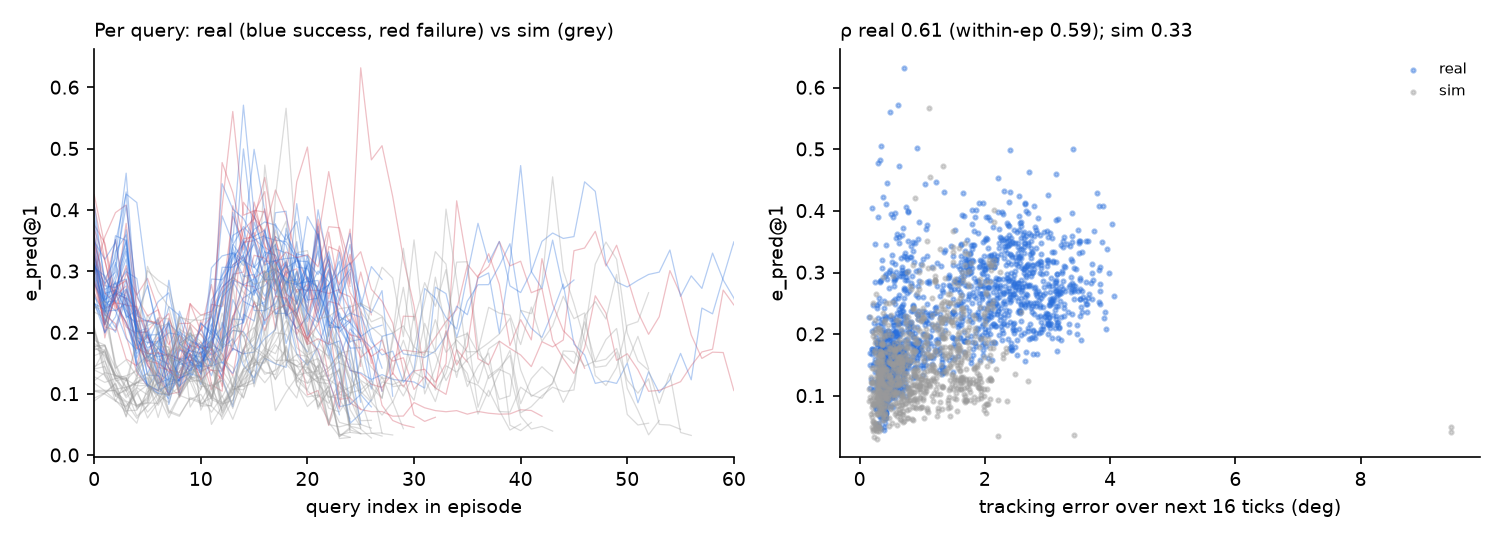
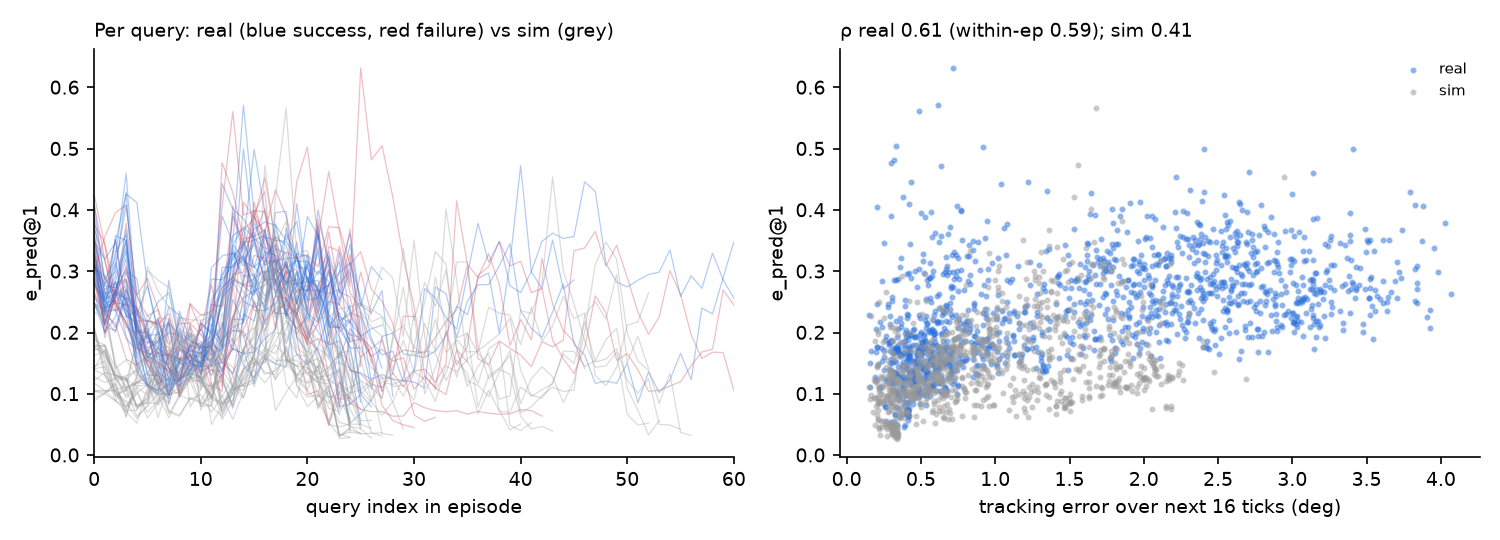
T011 review: one tracking definition (cmd at tick k vs state after it) for real and sim; fix T009 sim log offset (logs start after the hold); stop-restart tick profiles
Sim slope of e_pred on e_track is now 0.044/deg (= real; was 0.022). Excess +0.084 = 0.058 visual + 0.026 tracking + 0.000 slope (was 0.034/0.025/0.021). Restart share 0.006-0.014. Real-side numbers unchanged.

diff --git a/src/so101_playground/t011_analysis.py b/src/so101_playground/t011_analysis.py
@@ -98,6 +98,20 @@ def auroc(pos, neg) -> float:
     return float(((pos[:, None] > neg[None]).mean() + 0.5 * (pos[:, None] == neg[None]).mean()))
 
 
+# ---------------------------------------------------------------- chunk profile (one definition, real and sim)
+def chunk_profile(cmd16: np.ndarray, q17: np.ndarray) -> dict:
+    """cmd16[k-1] = command issued at chunk tick k (k = 1..16); q17[0] = arm state at the query (before tick 1),
+    q17[k] = state after command k has been applied for one control tick. Degrees, arm joints only.
+    real: cmd[s:s+16], state[s:s+17] (state is read at the start of a step, before that step's command);
+    sim:  cmd[i:i+16], [q[i-1]] + q[i:i+16] (q is logged after env.step), i = log index of the query step."""
+    c, q = cmd16[:, ARM], q17[:, ARM]
+    trk = np.abs(c - q[1:]).mean(1)  # per tick
+    spd = np.abs(np.diff(q, axis=0)).max(1)  # max joint speed, deg / tick
+    return {"motion16_deg": float(np.abs(q[16] - q[0]).max()), "e_track16_deg": float(trk.mean()),
+            "e_track_t1_8": float(trk[:8].mean()), "e_track_t9_16": float(trk[8:].mean()), "spd_t1": float(spd[0]),
+            "trk_k": trk.tolist(), "spd_k": spd.tolist(), "cmd_spd_k": np.abs(np.diff(np.vstack([q[:1], c]), axis=0)).max(1).tolist()}
+
+
 # ---------------------------------------------------------------- real
 def load_real(out: Path) -> tuple[list[dict], dict]:
     Q = [json.loads(l) for l in (out / "queries.jsonl").open()]
@@ -110,6 +124,14 @@ def load_real(out: Path) -> tuple[list[dict], dict]:
         qs = sorted(by[name], key=lambda r: r["q"])
         z = np.load(HOME / name / "trajectory.npz")
         st, cmd = z["state_sim_deg"], z["command_sim_deg"]
+        qsteps = np.flatnonzero(z["policy_query"])
+        for r in qs:
+            sq = int(qsteps[r["q"]])
+            assert sq == r["step"]
+            if sq + 16 < len(st):
+                r.update(chunk_profile(cmd[sq:sq + 16], st[sq:sq + 17]))
+            else:
+                r["e_track16_deg"] = None
         lab = LABELS[i]
         e = {"idx": i, "dir": name, "date": name[:8], "instruction": json.loads((HOME / name / "episode.json").read_text())["instructions"][0][1],
              "group": group_of(name, lab), "target": lab[0], "success": lab[1], "confidence": lab[2], "note": lab[3],
@@ -168,12 +190,14 @@ def load_sim() -> list[dict]:
                 npz = np.load(p, allow_pickle=True)
         for qi, f in enumerate(fr):
             d = dict(frames[f], src=src, home=home, obj=SIM_NAMES[home], ep=f"{src}:{cond}:{ep}:{att}", frame=f, qi=qi)
-            if npz is not None and f < len(npz["q"]):
+            # T007 (wam_gap_eval) logs every step from 0; T009 logs only after the hold, so index = step - hold
+            off = int(npz["hold_steps"]) if (npz is not None and src == "T009") else 0
+            i = f - off
+            if npz is not None and i + 16 <= len(npz["q"]) and (i >= 1 or "q_start" in npz):
                 q, cmd = np.degrees(npz["q"]), np.degrees(npz["cmd"])
-                n = len(q)
-                d["motion16_deg"] = float(np.abs(q[min(f + 16, n - 1), ARM] - q[f, ARM]).max())
-                d["e_track16_deg"] = float(np.abs(cmd[f:f + 16, ARM] - q[f:f + 16, ARM]).mean())
-                d["first_query"] = f == int(npz["hold_steps"]) or qi == 0
+                prev = q[i - 1] if i >= 1 else np.degrees(npz["q_start"])
+                d.update(chunk_profile(cmd[i:i + 16], np.vstack([prev[None], q[i:i + 16]])))
+                d["first_query"] = qi == 0
             rows.append(d)
     return rows
 
@@ -408,6 +432,43 @@ def main() -> None:
     reg["decomposition"] = {"total_excess": reg["real:mean_e_pred@1"] - reg["sim:mean_e_pred@1"],
                             "intercept_offset": a0 - b0, "more_tracking_error": a1 * (tr - ts), "steeper_slope": (a1 - b1) * ts}
     S["track_regression"] = reg
+    # --- stop-and-restart (L1 question): real chunks start from rest after the 0.8 s query hold; sim pauses the
+    # physics, so the arm resumes with its velocity. Per-tick profiles at matched chunk motion, and how much of the
+    # tracking-linked excess the early (ticks 1-8) part carries.
+    rs_ = {}
+    mbins = ((0, 2), (2, 10), (10, 20), (20, 40))
+    for nm, rows in (("real", rq), ("sim", sq)):
+        prof = {}
+        for lo, hi in mbins + ((10, 40),):
+            R_ = [r for r in rows if lo <= r["motion16_deg"] < hi and "trk_k" in r]
+            prof[f"{lo}-{hi}"] = {"n": len(R_), "trk_k": np.mean([r["trk_k"] for r in R_], 0).round(3).tolist(),
+                                  "spd_k": np.mean([r["spd_k"] for r in R_], 0).round(3).tolist(),
+                                  "cmd_spd_k": np.mean([r["cmd_spd_k"] for r in R_], 0).round(3).tolist(),
+                                  "e_track_t1_8": float(np.mean([r["e_track_t1_8"] for r in R_])),
+                                  "e_track_t9_16": float(np.mean([r["e_track_t9_16"] for r in R_])),
+                                  "e_track_t4_8": float(np.mean([np.mean(r["trk_k"][3:8]) for r in R_])),
+                                  "spd_t1": float(np.mean([r["spd_t1"] for r in R_])),
+                                  "spd_t4_8": float(np.mean([np.mean(r["spd_k"][3:8]) for r in R_])),
+                                  "e_pred@1": float(np.mean([r["e_pred@1"] for r in R_]))}
+        rs_[nm] = {"profile": prof, "fit_early_late": fit(rows, ["e_track_t1_8", "e_track_t9_16"])}
+    # counterfactual: give each real chunk sim's early/late tracking ratio at its motion bin (late part kept)
+    cf = []
+    ce = rs_["real"]["fit_early_late"]["coef"][1]
+    for r in rq:
+        for lo, hi in mbins:
+            if lo <= r["motion16_deg"] < hi:
+                ps = rs_["sim"]["profile"][f"{lo}-{hi}"]
+                ratio = ps["e_track_t1_8"] / ps["e_track_t9_16"]
+                cf.append(ce * max(0.0, r["e_track_t1_8"] - ratio * r["e_track_t9_16"]))
+    dec = reg["decomposition"]
+    rs_["restart_share"] = {"coef_early_real": ce, "e_pred_reduction_if_sim_early_late_ratio": float(np.mean(cf)),
+                            "of_total_excess": float(np.mean(cf) / dec["total_excess"]),
+                            "of_tracking_linked_excess": float(np.mean(cf) / (dec["more_tracking_error"] + dec["steeper_slope"]))}
+    # sim-only check: at matched motion, does starting a chunk slowly (low tick-1 speed) raise e_pred in sim?
+    sm = [r for r in sq if r["motion16_deg"] >= 10]
+    rs_["sim_entry_speed_check"] = {"n": len(sm), "fit": fit(sm, ["motion16_deg", "spd_t1"]),
+                                    "spearman_e_pred_vs_spd_t1": spearman([r["e_pred@1"] for r in sm], [r["spd_t1"] for r in sm])}
+    S["restart"] = rs_
     cm = out / "codec_motion.jsonl"
     if cm.exists():
         R = [json.loads(l) for l in cm.open()]
@@ -551,6 +612,25 @@ def plots(out: Path, eps, byq, sim, S) -> None:
                     f"sim {t['sim_query_spearman']:.2f}", fontsize=9, loc="left")
     fig.tight_layout()
     fig.savefig(out / "fig_per_query.png", dpi=150)
+    plt.close(fig)
+
+    # Fig 4: chunk tick profiles (moving chunks, 10-40 deg over the chunk): real starts from rest after the hold
+    fig, ax = plt.subplots(1, 2, figsize=(10, 3.4))
+    k = np.arange(1, 17)
+    for nm, c in (("real", C_REAL), ("sim", C_SIM)):
+        pr = S["restart"][nm]["profile"]["10-40"]
+        ax[0].plot(k, pr["spd_k"], "o-", color=c, ms=3, label=f"{nm} arm (n={pr['n']})")
+        ax[0].plot(k, pr["cmd_spd_k"], "--", color=c, lw=1, label=f"{nm} command")
+        ax[1].plot(k, pr["trk_k"], "o-", color=c, ms=3, label=nm)
+    ax[0].set_xlabel("tick in chunk (query = 0)"); ax[0].set_ylabel("max joint speed (deg / tick)")
+    ax[0].set_title("Real: tick 1 includes the 0.8 s hold (arm catches up), then stalls and re-accelerates", fontsize=8, loc="left")
+    ax[0].legend(frameon=False, fontsize=7)
+    ax[1].set_xlabel("tick in chunk"); ax[1].set_ylabel("|cmd(t) − q after t| (deg, arm mean)")
+    ax[1].set_title("Tracking error per tick (latent L1 = ticks 4–16)", fontsize=8, loc="left")
+    ax[1].axvspan(4, 16, color="k", alpha=0.04)
+    ax[1].legend(frameon=False, fontsize=7)
+    fig.tight_layout()
+    fig.savefig(out / "fig_restart.png", dpi=150)
     plt.close(fig)
 
 

diff --git a/docs/T011-real-epred.md b/docs/T011-real-epred.md
@@ -52,7 +52,7 @@ settle. Every real chunk therefore starts from rest (stop-and-go).
 | e_pred@1 overhead / wrist | 0.100 / 0.365 | 0.040 / 0.257 |
 | e_pred@2 | 0.335 | 0.198 (T007 only) |
 | e_static@1 | 0.375 | 0.382 |
-| e_track (\|cmd(t−1) − q(t)\|, arm, °) | 1.60 (2.21 while moving) | 0.98 (per query; T009 θ0 episode 1.22) |
+| e_track (\|command − state after it\|, arm, °) | 1.60 (2.21 while moving); per chunk 1.55 | per chunk 0.96 (T009 θ0 episode 1.22) |
 
 By object, episode-mean e_pred@1 (real n; sim layout):
 
@@ -104,35 +104,95 @@ Totals: 30 S / 15 F (named 7/17, each 23/28). Each "place each object" episode h
 
 ## 4. Real vs sim: visual offset or control gap?
 
-1. **Offset at a static arm (visual gap).** With motion over the next 16 ticks < 2° (305 real and 212 sim
-   queries), e_pred@1 is real 0.176 vs sim 0.139 (**+0.037**). An OLS on motion gives intercepts
-   0.181 [0.175, 0.188] and 0.145 [0.139, 0.151]. The overhead region alone is 0.072 vs 0.033 when static.
-   First queries (q = 0) are not static: the arm leaves home at about 23°, giving 0.319 vs 0.163.
-2. **Growth with motion (control gap).** The real slope is **0.0033 /°** [0.0030, 0.0036]; the sim slope is
-   0.00044 /° [0.00015, 0.00073], about 7× smaller. At 20–40° motion: real 0.282, sim 0.161 (+0.12).
-   - Both cameras grow (overhead 0.072 → 0.125, wrist 0.280 → 0.440).
+**One tracking definition for both domains (review fix, 2026-11-24).** e_track16 is the mean over chunk ticks
+k = 1..16 of |command issued at tick k − arm state after that command was applied for one tick|. Arm joints, °.
+- Real: `command_sim_deg[s+k−1]` vs `state_sim_deg[s+k]`. The state is read at the start of a step, before that
+  step's command.
+- Sim: `cmd[i+k−1]` vs `q[i+k−1]`. `q` is logged after `env.step`.
+- motion16 = max |state after tick 16 − state at the query| in both. Code: `chunk_profile` in `t011_analysis.py`.
+
+The first version had two errors on the sim side, and both are fixed:
+- **T009 episode logs start after the 45-tick hold, but were indexed by step.** Every T009 query read the arm 45
+  ticks late. T007 logs start at step 0 and were right.
+- **sim motion16 started one tick late.**
+
+No real-side number changed. The sim slope and the excess decomposition did; the first version's numbers are in
+brackets below.
+
+1. **Offset at a static arm (visual gap).** With motion over the next 16 ticks < 2° (305 real and 211 sim
+   queries), e_pred@1 is real 0.176 vs sim 0.130 (**+0.046**) [was 0.139, +0.037]. The overhead region alone is
+   0.072 vs 0.031 when static. First queries (q = 0) are not static: the arm leaves home at about 23°, giving 0.319
+   vs 0.163.
+2. **Growth with motion.**
+   - Slopes: real **0.0033 /°** [0.0030, 0.0036]; sim −0.0001 /° [−0.0004, 0.0001], i.e. flat [was 0.00044].
+   - At 20–40° motion: real 0.282, sim 0.152 (+0.13).
+   - Both real cameras grow (overhead 0.072 → 0.125, wrist 0.280 → 0.440).
    - The codec explains ≤ 0.006 of this (§1).
-3. **Tracking error absorbs the motion effect.** Real: e_pred@1 = 0.165 + 0.044·e_track16 (R² 0.29). Adding motion
-   leaves a motion coefficient of 0.0003. Sim: 0.130 + 0.022·e_track16 (R² 0.06). At matched motion, the real arm
-   tracks worse while moving and slightly better while static:
+3. **Tracking error absorbs the motion effect, with the same slope in both domains.**
+
+   | | fit | R² | first version |
+   |---|---|---|---|
+   | real | e_pred@1 = 0.165 + **0.044**·e_track16 | 0.29 | unchanged |
+   | sim | e_pred@1 = 0.106 + **0.044**·e_track16, slope CI [0.037, 0.052] | 0.14 | 0.130 + 0.022·e_track16, R² 0.06 |
+
+   Adding motion to the real fit leaves a motion coefficient of 0.0003. At matched motion, the real arm tracks
+   worse while moving:
 
    | motion | real e_track16 | sim e_track16 |
    |---|---|---|
-   | 0–2° | 0.47° | 0.59° |
-   | 10–20° | 1.61° | 1.05° |
-   | 20–40° | 2.61° | 1.31° |
+   | 0–2° | 0.47° | 0.54° |
+   | 10–20° | 1.61° | 1.06° |
+   | 20–40° | 2.61° | 1.33° |
 
-   Decomposition of the +0.081 mean excess:
+   Decomposition of the +0.084 mean excess:
 
-   | component | size |
-   |---|---|
-   | intercept (visual) | **+0.034** |
-   | more real tracking error × real slope | **+0.025** |
-   | steeper slope × sim tracking | **+0.021** |
+   | component | size | first version |
+   |---|---|---|
+   | intercept (visual) | **+0.058** | +0.034 |
+   | more real tracking error × slope | **+0.026** | +0.025 |
+   | slope difference × sim tracking | **−0.000** | +0.021 |
 
-   So about 40% is a constant visual offset and about 60% grows with motion and tracking error. The tracking-linked
-   part fits the stop-and-go hold (chunks start from rest and lag) plus the real servo response. It is what an RL
-   reward on control would act on.
+   About 70% is a constant visual offset and about 30% is the real arm's larger tracking error. The model
+   responds to tracking error identically in real and sim. The real arm simply tracks worse while moving, and that
+   is why the real excess grows with motion and the sim does not.
+
+### 4b. Stop-and-restart at each query (L1 question)
+
+Per-tick profiles for moving chunks (10–40° over the chunk; 781 real, 419 sim): `T011_restart.png`,
+`summary.json` → `restart`.
+
+- **Real speed.** Each real "tick 1" spans the 0.8 s hold. The state and frame sent to the server are read before
+  the query, so the arm catches up with its lag during the hold: **5.7°** on the fastest joint.
+  - Tick 2: **0.003 °/tick**, i.e. stopped.
+  - Ticks 3–7: re-acceleration (0.4, 1.1, 1.0, 1.4, 2.0).
+  - From tick 8: the commanded speed, about 2.2 °/tick.
+- **Sim speed.** The arm never stops. Its speed ramps smoothly from 0.8 to 2.0 over ticks 1–9, behind a command
+  that is already 1.7–2.1.
+- **Tracking error per tick.**
+  - Real: 1.75 → 1.33 (ticks 1–3; the hold catch-up resets it), then rises to a **plateau of about 2.65° from
+    tick 6**.
+  - Sim: 0.58 → plateau of about 1.39° from tick 9.
+
+  At matched motion, the real − sim excess is **+0.49° in ticks 1–8 and +0.61° in ticks 9–16**. Over ticks 4–8
+  (the frames at +4 and +8 inside latent L1) it is +0.52°.
+- **Most of the real tracking excess is steady-state lag, not the restart.** Ticks 9–16 are past the
+  re-acceleration, and there the real arm lags 1.23 ticks of motion against 0.71 in sim. That is servo response
+  (gain, velocity limit), which a gain/feed-forward adapter can act on.
+- **Share of the excess due to the stop-restart.** Real fit: e_pred@1 = 0.163 + 0.029·e_track(1–8) +
+  0.017·e_track(9–16) (R² 0.29).
+  - Lower estimate: give each real chunk sim's early/late tracking ratio at its motion and keep its late lag. The
+    e_pred reduction is **0.006**, 8% of the +0.084 excess and 25% of the tracking-linked +0.026.
+  - Upper bound: treat all of the early-tick excess (+0.49°) as restart. That gives **0.014**, 17% of the excess.
+  - So the stop-restart explains about **0.006–0.014** of e_pred.
+- **Sim test.** Among sim moving chunks, a slow start (low tick-1 speed) does not raise e_pred at matched motion:
+  coefficient −0.002 [−0.011, 0.006]; ρ 0.03.
+- **What is not measured here.** The hold itself also moves the arm by up to about 6° between the query frame and
+  tick 1, which in sim never happens. It is part of the observed L1 change, but it is the catch-up of the arm's own
+  lag, not new motion. Separating its effect on e_pred would need a run with a shorter hold, or with the state and
+  frames re-read after the query.
+- **For stage C.** A gain adapter can reduce the steady-state part (+0.026 − about 0.01). It cannot remove the hold,
+  the stall or the visual offset (+0.058). The 0.006–0.014 restart part, and how the hold length interacts with any
+  gain change, has to be held constant across compared θ: same hold, same runner.
 4. **Decoded predictions** (`T011_decoded.jpg`, `runs/T011/clips/*.mp4`; real | predicted L0+d1 | VAE recon).
    - The VAE recon of the real clip is sharp. The error is in the prediction, not in the VAE or the codec.
    - Overhead: the predicted arm is a smeared, checkered ghost near the right pose; the static scene is right.
@@ -142,6 +202,7 @@ Totals: 30 S / 15 F (named 7/17, each 23/28). Each "place each object" episode h
 
 ![decoded](T011_decoded.jpg)
 ![per query](T011_per_query.png)
+![restart](T011_restart.png)
 
 ## 5. RL usability
 
@@ -159,18 +220,18 @@ Totals: 30 S / 15 F (named 7/17, each 23/28). Each "place each object" episode h
 Real repeat noise is about 1.8× the sim jitter noise and equals the sim paired effect. One real episode pair
 therefore has SNR ≈ 1, against ≈ 1.6 in sim.
 
-Partly offsetting this, real e_pred is about 2× more sensitive to tracking error (0.044 vs 0.022 per °), and the
-real arm has about 1.3° more tracking error to remove while moving. A gain change that cut real e_track by 1° would
-be worth about 0.04 in e_pred, roughly 3× the noise floor. That is an extrapolation from the cross-sectional slope,
-not a measured paired effect.
+Partly offsetting this, the real arm has about 1.3° more tracking error to remove while moving. e_pred responds to
+tracking error with the same slope as in sim (0.044 per °; the first version's "2× more sensitive" came from the
+T009 misalignment). A gain change that cut real e_track by 1° would be worth about 0.04 in e_pred, roughly 3× the
+noise floor. That is an extrapolation from the cross-sectional slope, not a measured paired effect.
 
 **Success vs failure.** There is no signal: pooled AUROC (failures higher) is 0.48. Within groups, failures are
 slightly **lower** (group-centred AUROC 0.24, every within-group difference ≤ 0). Most real failures are
 wrong-object or never-grasped episodes. The model predicts the motion the arm then makes, so e_pred does not see task
 failure. As in sim, e_pred is a dynamics-consistency signal, not a task reward.
 
-**Tracking error.** Per query, Spearman ρ(e_pred@1, e_track16) is 0.61 real (0.59 within episode) and 0.33 sim.
-The partial ρ given motion is 0.22 real and 0.34 sim. Per episode it is 0.34 real.
+**Tracking error.** Per query, Spearman ρ(e_pred@1, e_track16) is 0.61 real (0.59 within episode) and 0.41 sim
+(0.27 within episode). The partial ρ given motion is 0.22 real and 0.41 sim. Per episode it is 0.34 real.
 
 ![noise floor](T011_noise_floor.png)
 
@@ -178,10 +239,11 @@ The partial ρ given motion is 0.22 real and 0.34 sim. Per episode it is 0.34 re
 
 Real e_pred is usable as a control-gap reward, but not as the only reward and not at the T009 batch size.
 - **It is clean and correctly measured.** Alignment is exact and L0 is bit-exact. The codec floor (0.007) is small.
-- **The visual offset is constant.** The +0.034 intercept is the same for every object and is present with a
-  static arm. Paired comparisons cancel it, so it does not stop RL.
-- **It tracks control better than in sim.** The rest of the excess grows with real tracking error, and per query
-  e_pred tracks e_track more strongly than in sim (R² 0.29 vs 0.06).
+- **The visual offset is constant.** The +0.058 intercept (about 70% of the excess) is the same for every object
+  and is present with a static arm (+0.046). Paired comparisons cancel it, so it does not stop RL.
+- **It responds to control as in sim.** The same slope applies, 0.044 per ° of tracking error. The rest of the
+  excess (+0.026) is the real arm's larger tracking error, mostly steady-state servo lag. Of that, 0.006–0.014 is
+  the stop-restart at each query, which an adapter cannot fix (§4b).
 - **Noise is the problem.** Same-θ repeat noise (median |Δ| 0.013) equals the sim paired effect (0.0125). It is
   blind to task success, so a success term (or success constraint) is still needed, as T009's hacking flags showed.
 
@@ -189,7 +251,9 @@ Before stage C:
 1. Use about 3–4× more episode pairs per update than T009, or compare at the query level with object/motion
    covariates (the motion adjustment cuts the noise SD 0.015 → 0.013).
 2. Hold the scene fixed per pair: same object, same pose, no human in frame.
-3. Keep the 0.8 s query hold identical across arms, or shorten it: it is part of the control gap being rewarded.
+3. Keep the 0.8 s query hold identical across compared θ (same runner, same server load). It stops and restarts
+   every chunk, and a gain adapter cannot remove it (§4b). Shortening it, or re-reading the state and frames after
+   the query, is a runner change to decide before stage C, not something RL can learn around.
 4. Get human success labels for #42–44 (and confirm the wrong-object failures) before success enters the reward.
 5. Note the encode is the plain whole-canvas pass (§1) when reusing the server outside this pipeline.
 
